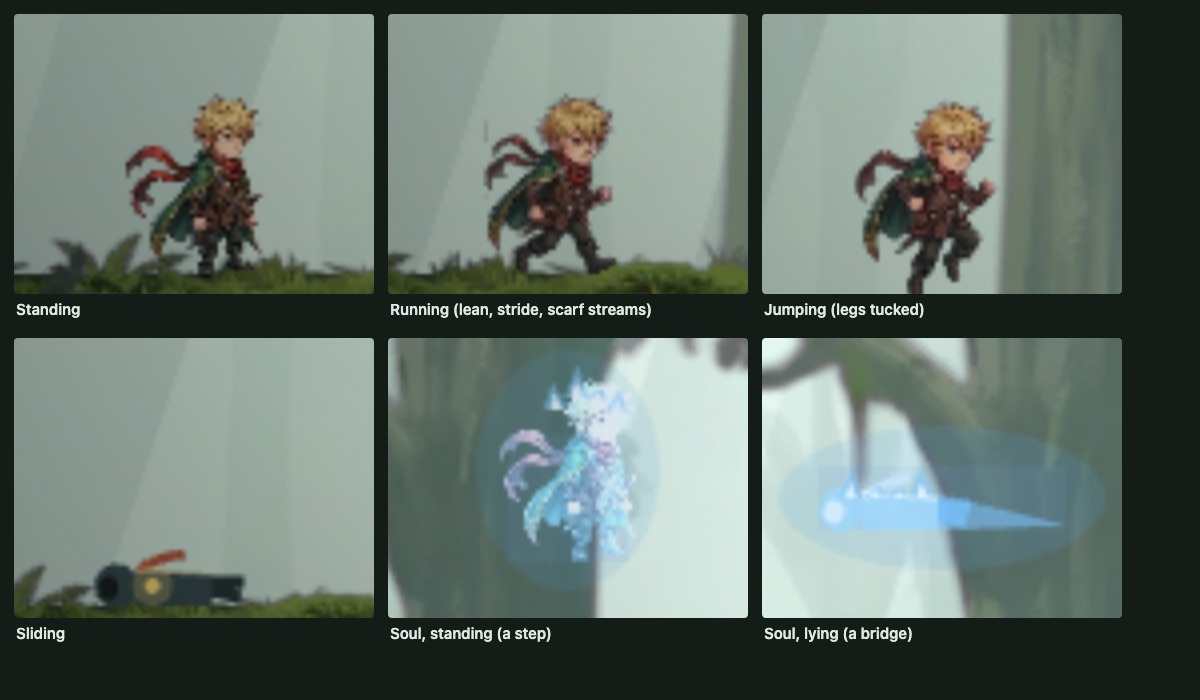
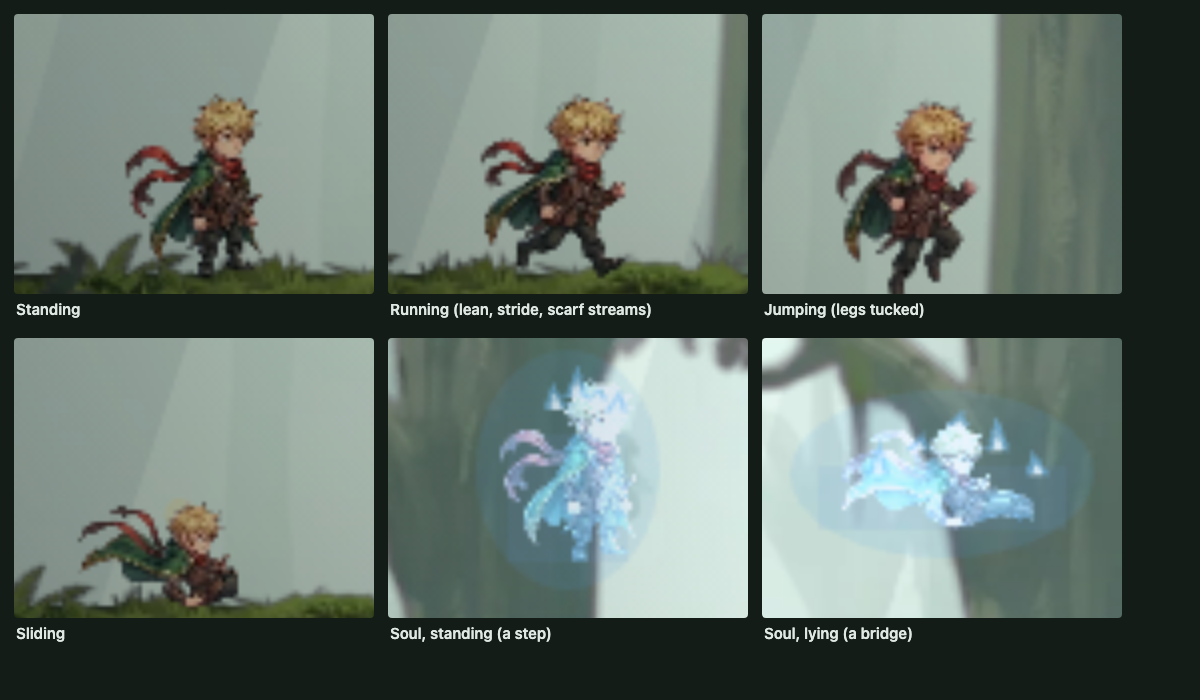
Painted slide: 4-frame cape flutter; lying souls use the slide pose

diff --git a/game.js b/game.js
@@ -17,6 +17,8 @@ const HERO_SRC = 112;                                  // his typical height in 
 // Run cycle: which frames of assets/hero/run.webp to loop, and how far he moves per frame.
 // Try orders and pacing in tools/preview.html, then copy the settings here.
 const RUN_FRAMES = [6, 7, 8, 9, 10], RUN_STEP = 15; // 11 dropped: it repeats 6
+// Slide: loop the first row of assets/hero/slide.webp so the cape flutters.
+const SLIDE_FRAMES = [0, 1, 2, 3], SLIDE_FPS = 8;
 const BODY_STAND = [30, 32], BODY_LYING = [62, 16];    // body left behind
 
 // Enemies: walkers patrol, turn at walls/bodies/ledges, kill on touch, die when a falling body lands on them.
@@ -229,6 +231,7 @@ class Room extends Phaser.Scene {
       this.load.image('heroSheet', 'assets/hero/sheet.webp'); // 8 frames: run 0-5, jump 6, fall 7
       this.load.image('heroIdle', 'assets/hero/idle.webp');
       this.load.image('heroRun', 'assets/hero/run.webp'); // 12 run frames: top row 0-5, bottom row 6-11
+      this.load.image('heroSlide', 'assets/hero/slide.webp'); // 12 slide frames, 3 rows of 4
     }
   }
 
@@ -312,6 +315,8 @@ class Room extends Phaser.Scene {
       };
       frames('heroSheet', 8);
       if (this.textures.exists('heroRun')) frames('heroRun', 12);
+      this.hasSlide = this.textures.exists('heroSlide');
+      if (this.hasSlide) frames('heroSlide', 12);
       this.heroScale = HERO_HEIGHT / HERO_SRC; // same pixel scale for every hero image
       this.heroSprite = this.add.image(0, 0, 'heroIdle').setOrigin(0.5, 1).setDepth(5.5);
       this.heroFrame = ['heroIdle', undefined];
@@ -375,9 +380,10 @@ class Room extends Phaser.Scene {
     c.lying = this.lying;
     c.dir = this.face;
     c.setFillStyle(0x7399d9, 0.12); // faint hitbox; the soul figure is drawn in drawFigures()
-    if (this.painted && !this.lying) {
+    if (this.painted && (!this.lying || this.hasSlide)) {
       // A soul is the hero's painting, frozen in the pose he died in, glowing blue-white.
-      const [key, frame] = this.heroFrame, feet = c.y + c.height / 2, flip = this.face < 0;
+      const [key, frame] = this.lying ? ['heroSlide', SLIDE_FRAMES[0]] : this.heroFrame; // pose may not be drawn yet
+      const feet = c.y + c.height / 2, flip = this.face < 0;
       const body = this.add.image(c.x, feet, key, frame).setOrigin(0.5, 1).setScale(this.heroScale).setFlipX(flip)
         .setTintFill(0x6fb6ee).setAlpha(0.45).setDepth(4.5);
       const glow = this.add.image(c.x, feet, key, frame).setOrigin(0.5, 1).setScale(this.heroScale).setFlipX(flip)
@@ -453,7 +459,7 @@ class Room extends Phaser.Scene {
     }
     const grounded = b.blocked.down || b.touching.down;
     this.walk = (this.walk || 0) + (grounded ? Math.abs(b.velocity.x) * dt : 0);
-    const usePainting = this.painted && !this.lying;
+    const usePainting = this.painted && (!this.lying || this.hasSlide);
     if (this.painted) this.heroSprite.setVisible(p.visible && usePainting);
     if (!p.visible) return;
     if (!usePainting) {
@@ -462,7 +468,8 @@ class Room extends Phaser.Scene {
     }
     // Pick the frame: in the air, jump or fall; on the ground, run frames timed to distance covered
     // (one frame per RUN_STEP px, so steps match speed), or the standing painting when still.
-    this.heroFrame = !grounded ? ['heroSheet', b.velocity.y < 0 ? 6 : 7]
+    this.heroFrame = this.lying ? ['heroSlide', SLIDE_FRAMES[Math.floor(t * SLIDE_FPS) % SLIDE_FRAMES.length]]
+      : !grounded ? ['heroSheet', b.velocity.y < 0 ? 6 : 7]
       : Math.abs(b.velocity.x) > 20
         ? (this.textures.exists('heroRun') ? ['heroRun', RUN_FRAMES[Math.floor(this.walk / RUN_STEP) % RUN_FRAMES.length]] : ['heroSheet', Math.floor(this.walk / RUN_STEP) % 6])
       : ['heroIdle', undefined];
@@ -476,10 +483,11 @@ class Room extends Phaser.Scene {
 
   // Flames and glow over a painted soul.
   soulFlames(g, c, t) {
-    const top = c.y + c.height / 2 - HERO_HEIGHT * 0.92;
+    const feet = c.y + c.height / 2, tall = c.lying ? 28 : HERO_HEIGHT;
+    const top = feet - tall * 0.92;
     g.fillStyle(0x5aa6e6, 0.14);
-    g.fillEllipse(c.x, c.y + c.height / 2 - HERO_HEIGHT / 2, 46, HERO_HEIGHT + 14);
-    [-7, -2, 3, 8].forEach((o, i) => {
+    g.fillEllipse(c.x, feet - tall / 2, c.lying ? c.width + 14 : 46, tall + 14);
+    (c.lying ? [-20, -10, 0, 10, 20] : [-7, -2, 3, 8]).forEach((o, i) => {
       // his head sits toward the way he faces, so the flames shift that way
       const fx = c.x + o + c.dir * 4, fy = top + Math.abs(o) * 0.6, fh = 6 + Math.sin(t * 7 + i * 1.9 + c.x) * 3, lean = Math.sin(t * 5 + i) * 1.5;
       g.fillStyle(0x7cc7ff, 0.55);
